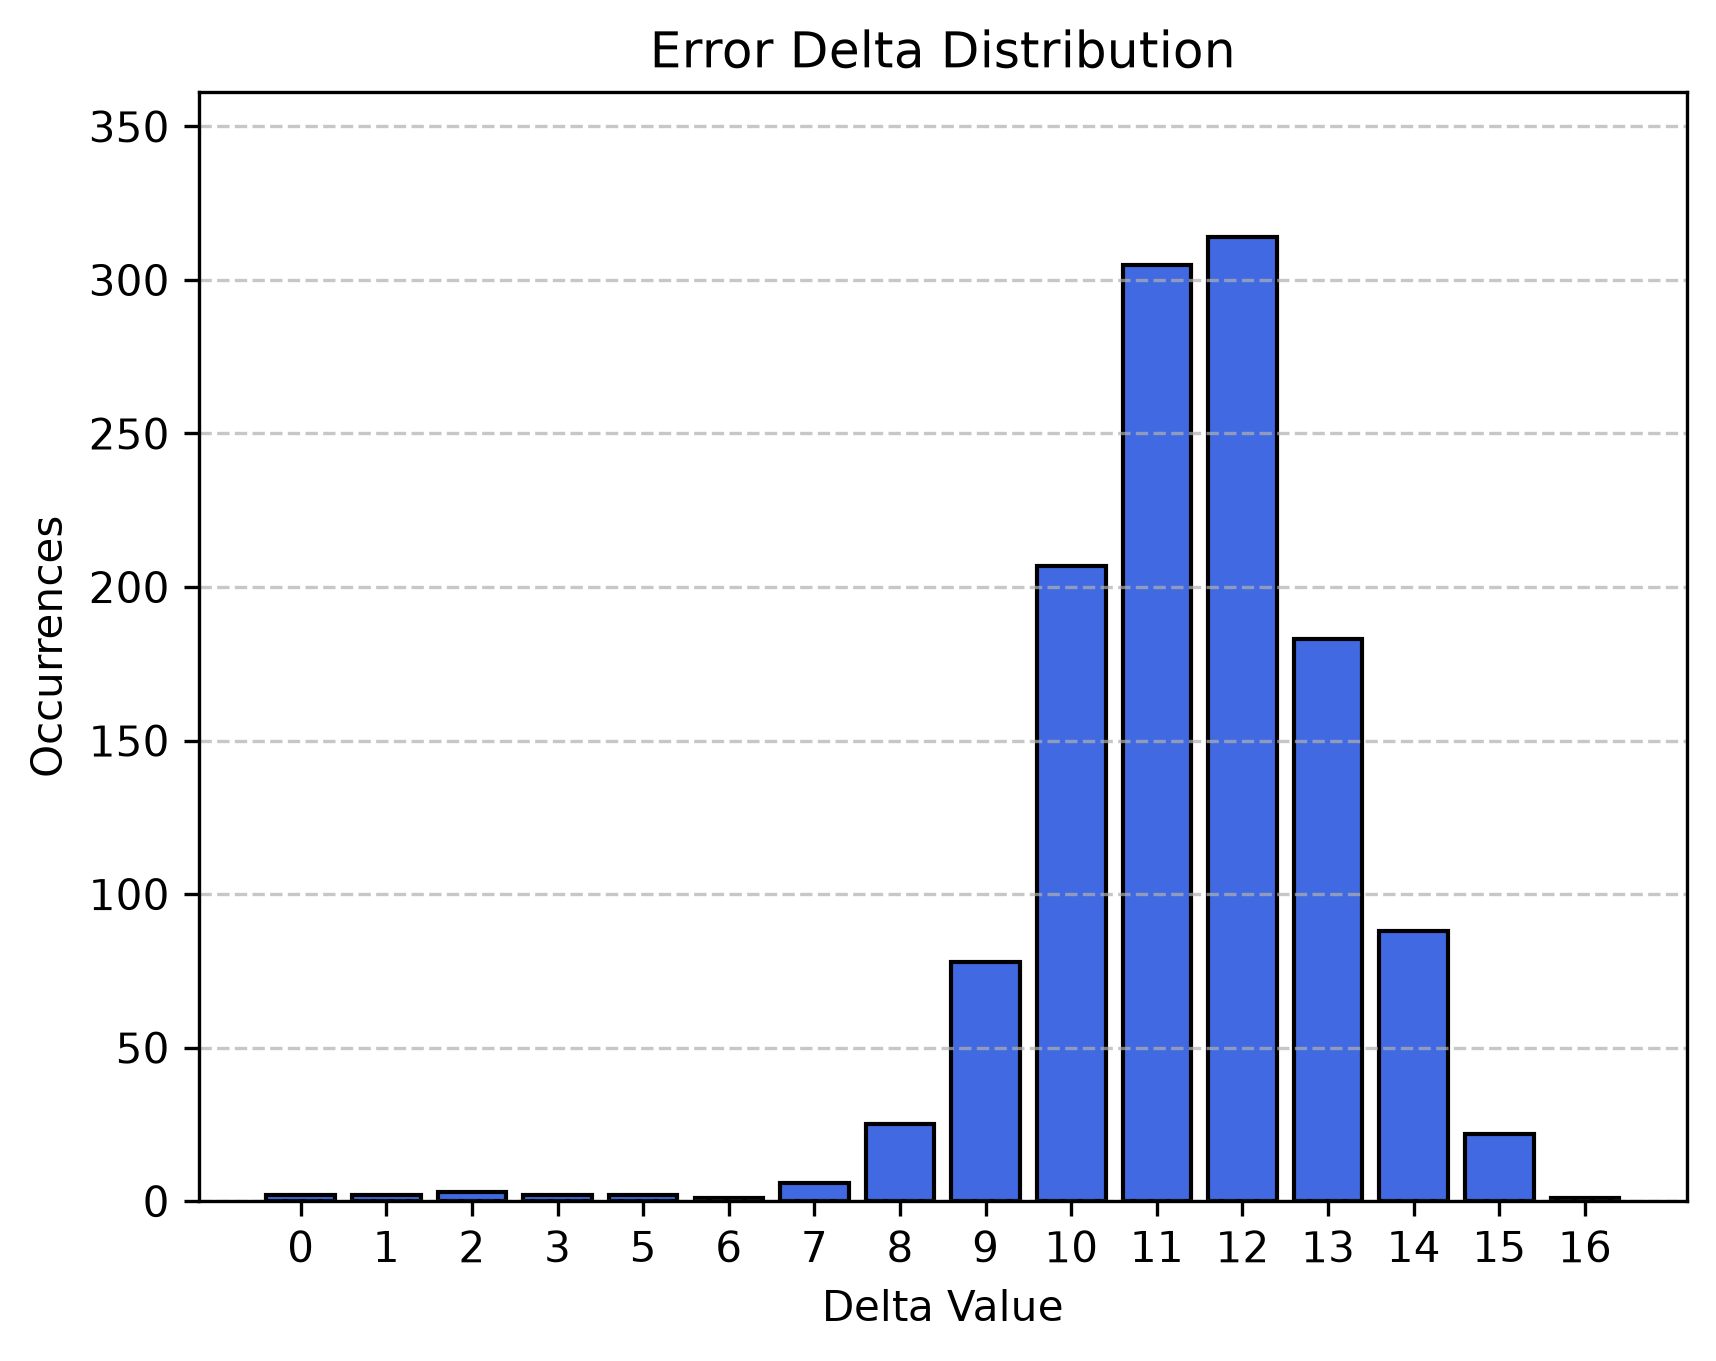
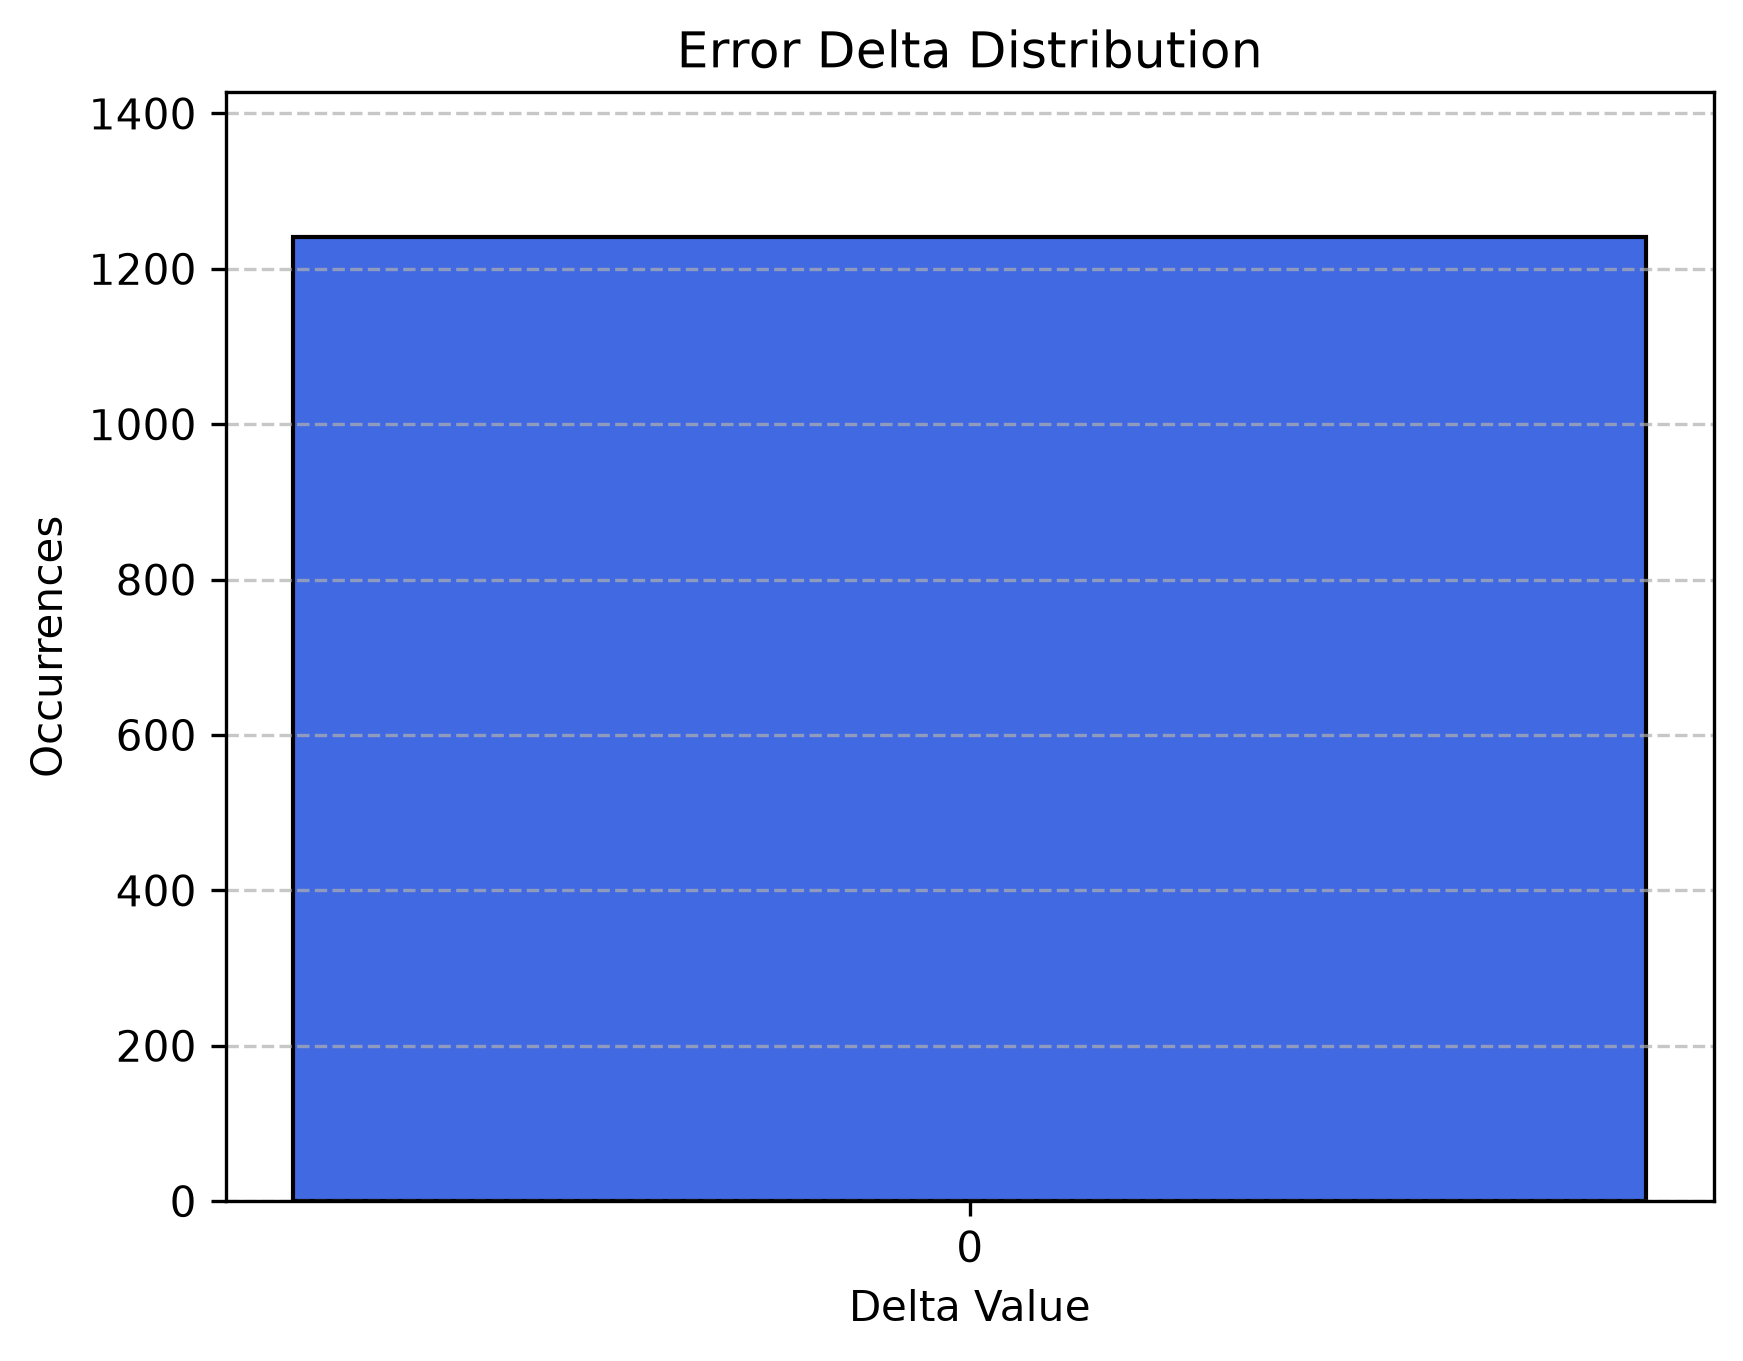
🐛🔨Bug SQUASHED: golden model matches RTL. Simplified tb accordingly.
delta of 0 for every point between models, as shown by both graphs. (Check out the git diff too!)

Updated the cocotb testbench to remove the debugging steps for discrepancies between golden model and RTL.

diff --git a/RTL_Architecture/fir_filter_tb.py b/RTL_Architecture/fir_filter_tb.py
@@ -1,13 +1,13 @@
 import cocotb
 from cocotb.clock import Clock
 from cocotb.triggers import RisingEdge, Timer
-from pylab import show
 import sys
 from pathlib import Path
 REPO_ROOT = Path(__file__).resolve().parent.parent
 GOLDEN_DIR = REPO_ROOT / "goldenModel"
-from goldenModel.golden_model import plot_waves
-
+from goldenModel.golden_model import plot_waves, plot_delta_histogram, FIR_filter
+from goldenModel.qFormat_conversions import qFormat_to_float, float_to_qFormat, lossy_conversion
+import matplotlib.pyplot as plt
 
 
 @cocotb.test()
@@ -30,8 +30,16 @@ async def fir_filter_tb(dut):
     with open(GOLDEN_DIR / "data_messy_stimulus.hex", "r") as f:
         stimulus = [int(line.strip(), 16) for line in f if line.strip()]
 
+    stimulus_float = []
+    for i in range(len(stimulus)):
+        stimulus_float.append(qFormat_to_float(stimulus[i]))
+
     with open(GOLDEN_DIR / "data_expected_output.hex", "r") as f:
         golden = [int(line.strip(), 16) for line in f if line.strip()]
+
+    golden_float = []
+    for i in range(len(golden)):
+        golden_float.append(qFormat_to_float(golden[i]))
 
     # 3.5 Load coeff_regs
     with open(GOLDEN_DIR / "data_fir_coeffs.hex", "r") as f:
@@ -44,10 +52,12 @@ async def fir_filter_tb(dut):
     error_count = 0
     pipeline_delay = 9  # adjust to match your FIR filter's latency
     recieved_output = []
+    recieved_output_float = []
 
-
+    deltas = []
     delta_L = [.1,9999999]
     delta_S = [1000,0]
+    delta_count = {}
     weird_deltas = {}
 
     for i, val in enumerate(stimulus):
@@ -57,33 +67,70 @@ async def fir_filter_tb(dut):
 
         actual = int(dut.data_out.value)
         recieved_output.append(actual)
+        recieved_output_float.append(qFormat_to_float(actual))
         if i >= pipeline_delay:
             expected = golden[i - pipeline_delay]
-            delta = actual - expected
-            
+            delta = abs(actual - expected)
+            delta_count[delta] = delta_count.get(delta, 0) + 1
+
             if actual != expected:
+                deltas.append(delta)
+
+                # Largest/Smallest delta logic
                 if abs(delta) < abs(delta_S[0]):
                     delta_S[0] = delta
                     delta_S[1] = i
-                elif abs(delta) > abs(delta_L[0]):
+                elif abs(delta) > abs(delta_L[0])and (abs(qFormat_to_float(delta)) > 2**-14):
                     delta_L[0] = delta
                     delta_L[1] = i
-                if abs(delta) > 32:
+                # "weird_delta" logic (abnormal from the "low teens" trend)
+                if abs(delta) > 32 and (abs(qFormat_to_float(delta)) > 2**-13):  # catch small negative mismatches that present as deltas of 64000
                     weird_deltas[i] = delta
-                if abs(delta) < 4:
+                if abs(delta) < 5:
                     weird_deltas[i] = delta
-                cocotb.log.error(f"MISMATCH at sample {i}: Expected {hex(expected)}, Got {hex(actual)}, Delta {actual -expected}")
+
+                # print mismatch to console
+                cocotb.log.error(f"MISMATCH at sample {i}: Expected {hex(expected)}, Got {hex(actual)}, Delta {delta} = {hex(delta)}")
                 error_count += 1
             elif actual == expected:
-                cocotb.log.error(f" ✅ MATCH at sample {i}: Expected {hex(expected)}, Got {hex(actual)}")
-    print(f"Largest delta is {delta_L[0]} at sample {delta_L[1]}")
-    print(f"Smallest delta is {delta_S[0]} at sample {delta_S[1]}")
-    print(f"WEIRD deltas")
-    print(weird_deltas)
+                deltas.append(delta)
+
+                cocotb.log.info(f" ✅ MATCH at sample {i}: Expected {hex(expected)}, Got {hex(actual)}")
+
+
+    ##=========================================================================================
+    ##================== Delta between golden model and SystemVerilog Model ===================
+    ##=========================================================================================
+
+    # deltas_float = []
+    # for i in range(len(deltas)):
+    #     if deltas[i] < 0:
+    #         deltas_float.append(qFormat_to_float(deltas[i] + 0x1111))
+    #     else:
+    #         deltas_float.append(qFormat_to_float(deltas[i]))
+
+    # print(f"Largest delta is {delta_L[0]} at sample {delta_L[1]}")
+    # print(f"Smallest delta is {delta_S[0]} at sample {delta_S[1]}")
+    # print(f"WEIRD deltas \n {weird_deltas}")
+    # print()
+    # print(f"Delta Count \n {delta_count}")
+    # print()
+    # print(f"Deltas \n {deltas[:20]}")
+    # print()
+    # print(f"Deltas_float\n {deltas_float[:20]}")
+    # print()
+
+    # plot_delta_histogram(delta_count)
+    # plot_waves(deltas_float, seed="deltas_plot_", dynamic_ylims=True)
+
+
+
+
+    # plot_waves(list(stimulus_float), seed="tb_plot_Stimulus_")
+    # plot_waves(golden_float, seed="tb_plot_goldenOUT_")
+    # plot_waves(recieved_output_float, seed="tb_plot_VerilogOUT_")
+    # plot_waves(golden_float, recieved_output_float, seed="tb_plot_overlayOUT_", overlay=True)
+
     assert error_count == 0, f"Test failed with {error_count} mismatches!"
-    plot_waves(stimulus)
-    plot_waves(recieved_output)
-    show(block=True)
-    
 
     cocotb.log.info("🎉 FIR Filter test passed cleanly!")
